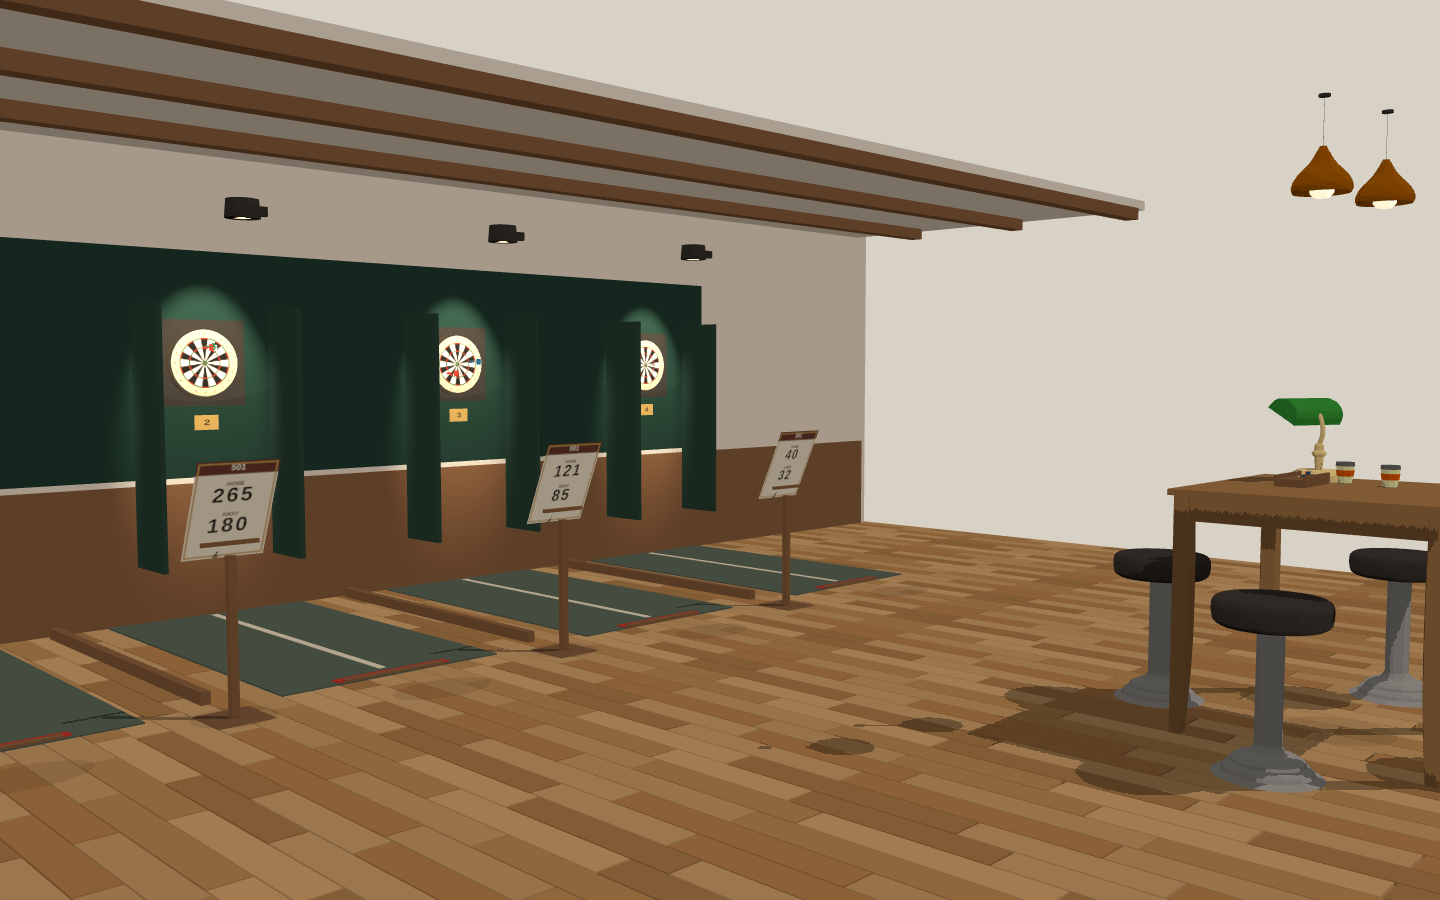
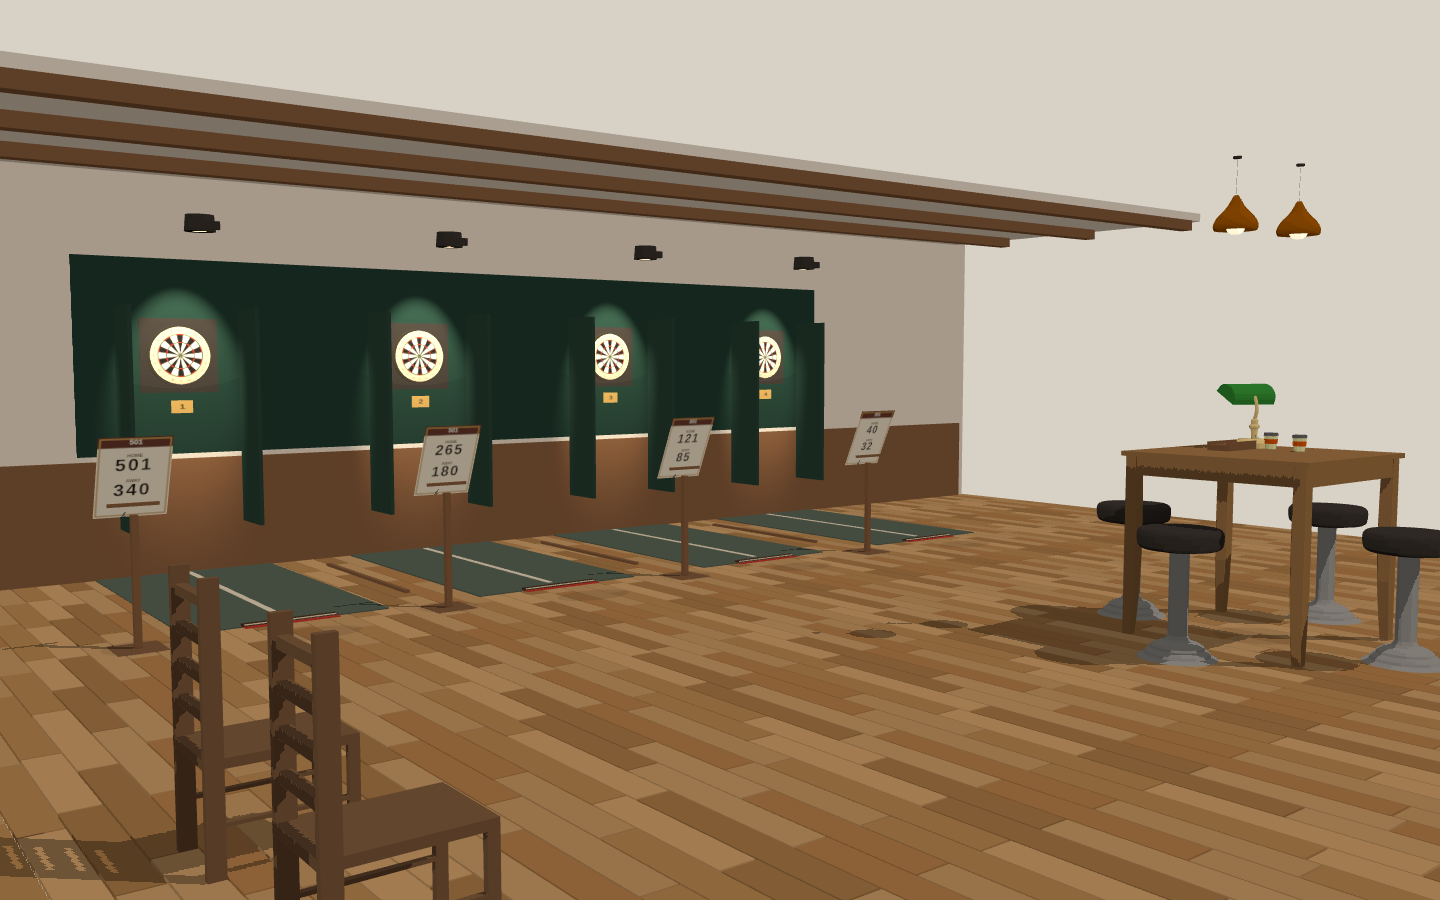
Refine the darts club framing, oche, and board darts.
Pull the default view back so all four scoring stands stay in frame, and swing the corner view onto the existing spectator chairs. The raised oche stays a short bar across each throw. Staged darts come off the boards so the faces stay a clean numbered bed.

diff --git a/experiments/indoor30-20261113/darts-club/darts.js b/experiments/indoor30-20261113/darts-club/darts.js
@@ -198,28 +198,33 @@ function plaqueTexture() {
 
 function makeDart(color) {
   const g = new THREE.Group();
-  const point = new THREE.Mesh(new THREE.ConeGeometry(0.003, 0.02, 8), toon("#d9d3c6"));
-  point.rotation.x = Math.PI / 2;
-  point.position.z = 0.01;
+  const point = new THREE.Mesh(new THREE.ConeGeometry(0.00105, 0.014, 6), toon("#d7d1c6"));
+  point.rotation.x = -Math.PI / 2;
+  point.position.z = -0.003;
   g.add(point);
-  const barrel = new THREE.Mesh(new THREE.CylinderGeometry(0.0045, 0.0055, 0.042, 10), toon(color));
+  const barrel = new THREE.Mesh(new THREE.CylinderGeometry(0.0024, 0.0031, 0.04, 8), toon(color));
   barrel.rotation.x = Math.PI / 2;
-  barrel.position.z = 0.04;
+  barrel.position.z = 0.02;
   g.add(barrel);
-  const shaft = new THREE.Mesh(new THREE.CylinderGeometry(0.0018, 0.0018, 0.038, 8), toon("#3a342e"));
+  const shaft = new THREE.Mesh(new THREE.CylinderGeometry(0.00085, 0.00085, 0.024, 6), toon("#2a261f"));
   shaft.rotation.x = Math.PI / 2;
-  shaft.position.z = 0.078;
+  shaft.position.z = 0.05;
   g.add(shaft);
-  const flight = new THREE.Mesh(new THREE.BoxGeometry(0.034, 0.0022, 0.042), toon(color));
-  flight.position.z = 0.112;
-  g.add(flight);
-  const flight2 = new THREE.Mesh(new THREE.BoxGeometry(0.0022, 0.032, 0.04), toon(color));
-  flight2.position.z = 0.112;
-  g.add(flight2);
+  const vaneGeo = new THREE.BoxGeometry(0.007, 0.0004, 0.016);
+  const vaneMat = toon(color);
+  for (let i = 0; i < 4; i += 1) {
+    const vane = new THREE.Mesh(vaneGeo, vaneMat);
+    const ang = (i * Math.PI) / 2;
+    vane.rotation.z = ang;
+    vane.position.set(Math.cos(ang) * 0.0032, Math.sin(ang) * 0.0032, 0.066);
+    g.add(vane);
+  }
   g.traverse((o) => {
     if (o.isMesh) {
-      o.castShadow = true;
+      o.castShadow = false;
       o.receiveShadow = false;
+      o.userData.noCast = true;
+      o.userData.noReceive = true;
     }
   });
   return g;
@@ -402,9 +407,8 @@ function makeRoom(layout) {
 
     for (const dart of STUCK[i]) {
       const d = makeDart(dart.color);
-      d.position.set(x + dart.dx, SPEC.bullHeight + dart.dy, p.boardFaceZ + 0.002);
-      d.rotation.y = (dart.dx - dart.dy) * 0.35;
-      d.scale.setScalar(1.35);
+      d.position.set(x + dart.dx, SPEC.bullHeight + dart.dy, p.boardFaceZ + 0.004);
+      d.rotation.y = dart.yaw ?? 0.22;
       g.add(d);
     }
 
@@ -467,21 +471,33 @@ function makeRoom(layout) {
       SPEC.ocheLength,
       SPEC.ocheHeight,
       SPEC.ocheDepth,
-      oak,
+      toon("#4a3428"),
       x,
       SPEC.ocheHeight / 2,
       p.ocheBackZ - SPEC.ocheDepth / 2,
     );
     oche.name = "oche";
+    const lip = addBox(
+      g,
+      SPEC.ocheLength - 0.02,
+      0.007,
+      0.01,
+      toon("#f0e2c4"),
+      x,
+      SPEC.ocheHeight - 0.004,
+      p.ocheBackZ + 0.002,
+    );
+    lip.userData.noCast = true;
+    lip.userData.noReceive = true;
     const paint = addBox(
       g,
-      SPEC.ocheLength + 0.08,
-      0.006,
-      0.07,
+      SPEC.ocheLength,
+      0.004,
+      0.05,
       red,
       x,
-      0.03,
-      p.ocheBackZ - 0.045,
+      0.022,
+      p.ocheBackZ + 0.032,
     );
     paint.userData.noCast = true;
     paint.userData.noReceive = true;
@@ -496,17 +512,11 @@ function makeRoom(layout) {
 
   for (let i = 0; i < p.centers.length - 1; i += 1) {
     const x = (p.centers[i] + p.centers[i + 1]) / 2;
-    const rail = addBox(
-      g,
-      0.05,
-      0.07,
-      p.ocheBackZ - p.boardFaceZ - 0.16,
-      oak,
-      x,
-      0.05,
-      (p.boardFaceZ + p.ocheBackZ) / 2 - 0.04,
-    );
+    const z0 = p.boardFaceZ + 0.38;
+    const z1 = p.ocheBackZ - 0.46;
+    const rail = addBox(g, 0.035, 0.028, z1 - z0, oak, x, 0.026, (z0 + z1) / 2);
     rail.name = "divider";
+    rail.userData.noCast = true;
   }
 
   p.stands.forEach((stand, i) => {
@@ -542,7 +552,7 @@ function makeRoom(layout) {
   for (let i = 0; i < 3; i += 1) {
     const d = makeDart(["#c4382e", "#1f7a48", "#24527a"][i]);
     d.rotation.y = Math.PI / 2;
-    d.position.set(-0.05 + i * 0.012, 0.045, 0);
+    d.position.set(-0.02, 0.042, -0.032 + i * 0.028);
     caseG.add(d);
   }
   caseG.position.set(p.table.x + 0.02, p.table.top, p.table.z - 0.2);

diff --git a/experiments/indoor30-20261113/darts-club/refs/GAP.md b/experiments/indoor30-20261113/darts-club/refs/GAP.md
@@ -4,14 +4,14 @@ Closed in this scene:
 
 - Four lanes. Bull at 1.73 m. Back of each 610 × 38 mm oche is 2.37 m from the face. `tests/check_layout.mjs` keeps the corridors clear of the high table, stools, spectator chairs, and scoring stands.
 - Number ring, double, treble, and both bulls are drawn at the WDF radii. The 20 is the top dark segment.
-- Each lane has its own spot, a centre line, a raised oche with a floor stripe, and a 501 stand in the gap beside the throw.
+- Each lane has its own spot, a centre line, a 610 mm oche set across the throw, and a 501 stand in the gap beside the throw. The long floor strips are lane separators in the gaps, and they stop short of the oche.
 - The communal poseur table, four stools, two mugs, a dart case, and a banker's lamp sit behind the walk. Two chairs on the left wall face the lanes. No pool table and no bar counter.
 
 Remaining:
 
 - The shared catalog has no steel-tip board with a numbered wire bed. Faces are a canvas on a wood rim, not sisal and staples. Spider wires are strokes, not mesh.
-- Stuck darts are cones, cylinders, and two crossed boxes. Flights read in the close shot and are still obviously built, not a molded flight.
+- Slim darts (point, barrel, shaft, four small vanes) sit in the case on the high table. None are stuck in the boards: at board scale a cluster in the treble still read as colored bars, so the faces stay clear.
 - The banker's lamp is the library desk lamp, green shade and all. It is a table light, not a club fitting. The pendants are the cafe ceiling lamp.
-- The saved default frame centres the four boards. The leftmost 501 stand is cut by the frame edge. The corner frame shows the table and lanes; the two spectator chairs sit just outside that frame, on the left wall.
+- The default frame holds all four 501 stands. The corner frame holds the two spectator chairs, the lanes, and the high table. Plaster to the right of the last lane is still plain. The raised oche is the short dark bar across each throw, with a red toe line of the same length; the thin strips in the gaps are separators and stop short of it.
 - Stool shadows are the key light on thin feet. They puddle a little on the oak. Walls do not receive that shadow, so the plaster stays clear of the stripe that shadow maps were leaving across the back wall.
 - Scoring is a canvas 501 card, not chalk. There are no players.
